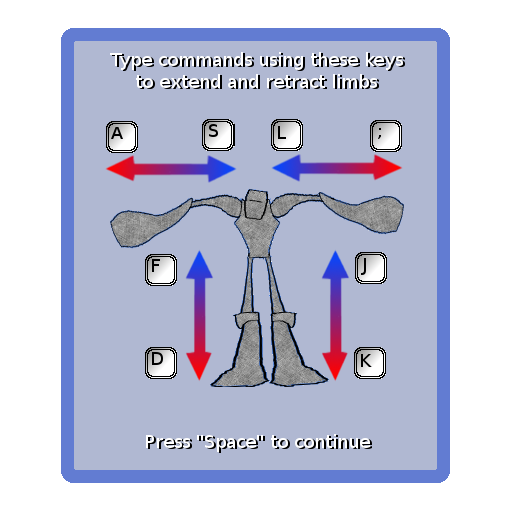
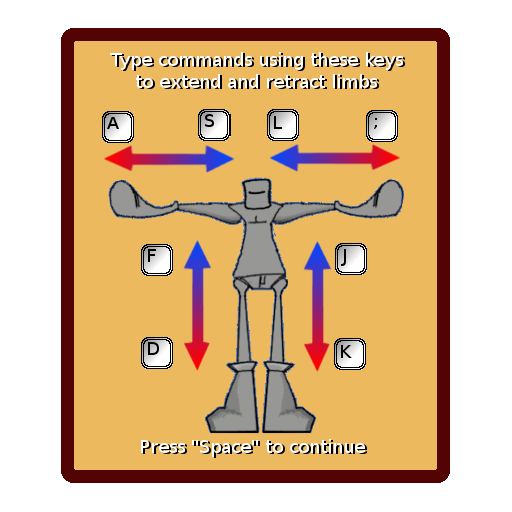
getting closer...

diff --git a/src/scripts/Game.js b/src/scripts/Game.js
@@ -3,6 +3,7 @@
 
 	Game.prototype = {
 		create: function() {
+			
 			var physics = this.game.physics,
 				add = this.add,
 				debugBodies = false;
@@ -82,16 +83,11 @@
 			enemy.events.onCommandResume.add(function() { console.log('commands resumed')});
 			enemy.events.onDefeated.add(this.onDefeated, this);
 
-			//temp, replace with Instructions
-			controller.onMatchStart();
-			robot.onMatchStart();
 
-			/*
 			var instructions = new Instructions(this.game);
-			instructions.events.onComplete.addOnce(controller.onMatchStart, controller);
-			instructions.events.onComplete.addOnce(robot.onMatchStart, robot);
-			*/
+			instructions.events.onComplete.addOnce(this.onInstructionsComplete, this);
 
+			this.fadeIn(500, 700);
 		},
 
 		update: function() {
@@ -127,6 +123,22 @@
 			//this.game.debug.body(this.enemy);
 			//this.game.debug.body(this.robot.arcade);
 			//this.game.debug.body(this.ground.arcade);
+		},
+
+		onInstructionsComplete: function() {
+			var game = this.game,
+				robot = this.robot,
+				controller = this.enemyController;
+
+			game.add.existing(new FightText(game, 'final round'))
+			   .start().addOnce(function() {
+			   		game.add.existing(new FightText(game, 'ready'))
+				   	   .start().addOnce(function() {
+							robot.onMatchStart();
+							controller.onMatchStart();
+					   		game.add.existing(new FightText(game, 'fight')).start();
+					   })
+			   });
 		},
 
 		onDefeated: function(loser) {

diff --git a/src/scripts/FightText.js b/src/scripts/FightText.js
@@ -1,0 +1,38 @@
+(function(exports) {
+	function FightText(game, key) {
+		Phaser.Sprite.call(this, game, 400, 300, 'instructions-atlas', key);
+		this.anchor.setTo(0.5, 0.5);
+		this.fixedToCamera = true;
+
+		this.onComplete = new Phaser.Signal();
+	}
+
+	_.extend(FightText, {
+		preload: function(load) {
+			load.atlasJSONArray('instructions-atlas', 'assets/atlas/instructions.png', 'assets/atlas/instructions.json');
+		}
+	});
+
+	FightText.prototype = Object.create(Phaser.Sprite.prototype);
+	FightText.prototype.constructor = FightText;
+
+	_.extend(FightText.prototype, {
+		start: function() {
+			var tween = game.add.tween(this)
+				.to({ y: 250 }, 1000);
+				//.to({ y: 350 }, 1250);
+				//.to({ y: 1000 }, 300);
+
+			tween.onComplete.addOnce(function() {
+				this.onComplete.dispatch();
+				this.destroy();
+			}, this);
+
+			tween.start();
+
+			return this.onComplete;
+		}
+	})
+
+	exports.FightText = FightText;
+})(this);

diff --git a/src/scripts/Instructions.js b/src/scripts/Instructions.js
@@ -3,8 +3,10 @@
 		Phaser.Group.call(this, game);
 
 		var pages = this.pages = [
-			game.make.sprite(0, 0, 'instructions-page-1'),
-			game.make.sprite(0, 0, 'instructions-page-2')
+			game.make.sprite(0, 0, 'instructions-atlas', 'story'),
+			game.make.sprite(0, 0, 'instructions-atlas', 'instructions for keys'),
+			game.make.sprite(0, 0, 'instructions-atlas', 'instructions for strings'),
+			game.make.sprite(0, 0, 'instructions-atlas', 'instructions for blocks')
 		];
 
 		_.forEach(pages, function(page) {
@@ -27,8 +29,7 @@
 
 	_.extend(Instructions, {
 		preload: function(load) {
-			load.image('instructions-page-1', 'assets/img/instructions for keys.png');
-			load.image('instructions-page-2', 'assets/img/instructions for strings.png');
+			load.atlasJSONArray('instructions-atlas', 'assets/atlas/instructions.png', 'assets/atlas/instructions.json');
 		}
 	});
 

diff --git a/src/scripts/FadeMixin.js b/src/scripts/FadeMixin.js
@@ -3,10 +3,13 @@
 exports.FadeMixin = Mixin.create({
 	fader: function() {
 		var game = this.game,
-			fader = this.add.tileSprite(0, 0, 800, 600, 'black');
-
+			fader = this.add.sprite(0, 0,'black');
+		
+		fader.width = 800;
+		fader.height = 600;
 		fader.fixedToCamera = true;
 		game.world.bringToTop(fader);
+		fader.bringToTop();
 
 		return fader;
 	},

diff --git a/src/index.html b/src/index.html
@@ -40,6 +40,7 @@
 		<script src="scripts/TimerBar.js"></script>
 		<script src="scripts/CommandDisplay.js"></script>
 		<script src="scripts/Instructions.js"></script>
+		<script src="scripts/FightText.js"></script>
 		<script src="scripts/FadeMixin.js"></script>
 		<script src="scripts/Boot.js"></script>
 		<script src="scripts/Preload.js"></script>

diff --git a/src/scripts/Preload.js b/src/scripts/Preload.js
@@ -32,13 +32,9 @@
 			this.stage.setBackgroundColor('#530301');
 		},
 		onLoadComplete: function() {
-			this.state.start('game');
-
-			/*
 			this.fadeOut(300, 700).onComplete.add(function() {
 				this.state.start('intro');
 			}, this);
-			*/
 		}
 	};
 

diff --git a/src/scripts/Boot.js b/src/scripts/Boot.js
@@ -9,6 +9,7 @@
 		},
 		create: function() {
 			this.state.start('preload');
+			this.stage.setBackgroundColor('#530301');
 		}
 	}
 
